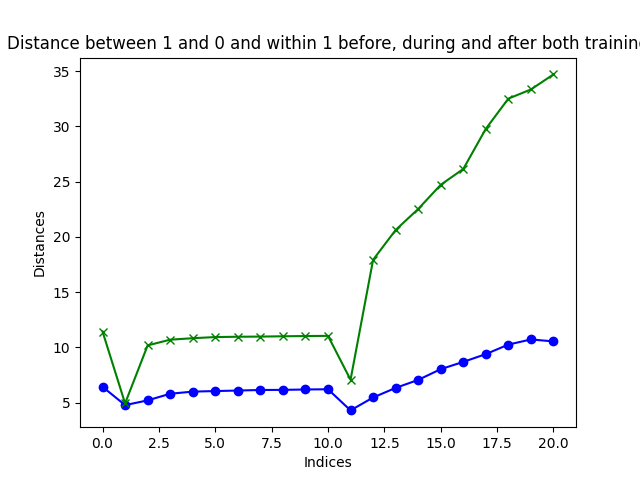
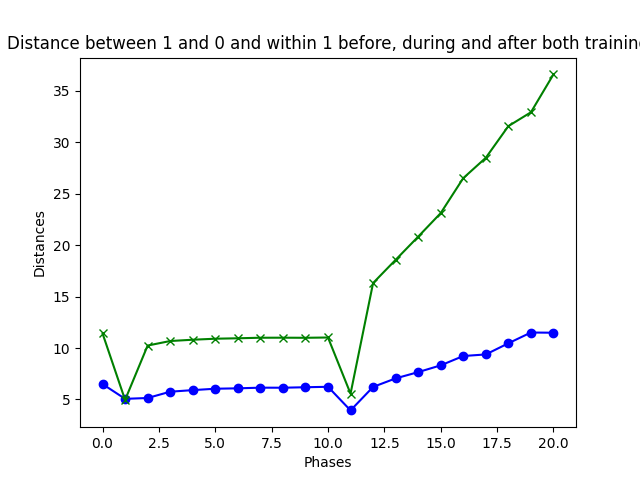
Update

diff --git a/main.py b/main.py
@@ -91,7 +91,7 @@ if __name__ == "__main__":
     plt.plot(list(range(len(within))), within, label='Within 1', marker='o', color='blue')  # First line with markers
     plt.plot(list(range(len(between))), between, label='Between 1 and 0', marker='x', color = "green")  # Second line with different markers
 
-    plt.xlabel("Indices")
+    plt.xlabel("Phases")
     plt.ylabel("Distances")
     plt.title("Distance between 1 and 0 and within 1 before, during and after both training")
     plt.savefig("Distance between 1 and 0 and within 1 before, during and after both training.png.")
